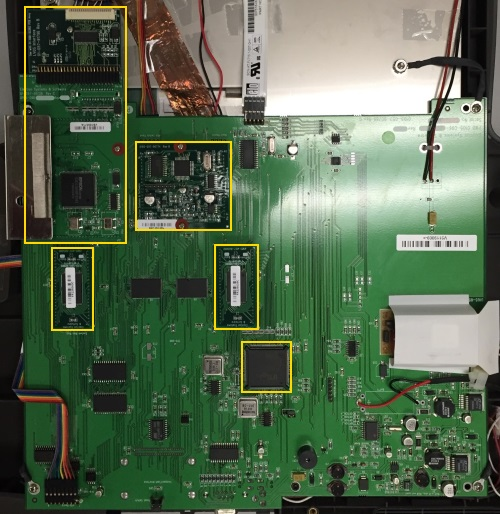
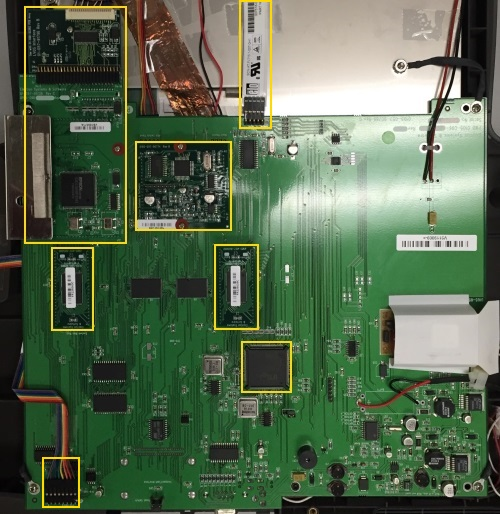
#22 Redesign of iVotronic subpages
Making it all 1 consistent UI.

diff --git a/ivo_sound.html b/ivo_sound.html
@@ -1,17 +1,47 @@
-<head>
-  <title>iVotronic Sound Module</title>
-</head>
+<html>
+    <head>
+        <meta charset="UTF-8" />
+        <title>iVotronic Sound Assembly</title>
+        
+        <link rel="stylesheet" href="styles/main_ui.css" />
+        <link rel="stylesheet" href="styles/dataFields.css" />
+        
+        <script type="text/javascript" src="dataMgmt.js"></script>
+        <script type="text/javascript">
+            function getAUDInfo(component)
+            {
+                getInformation('ivoSound', component);
+            }
+        </script>
+    </head>
 
-<body>
-<map name="boardmap">
-    <area shape="rect" coords="451,288,568,395" href="https://github.com/SCCapstone/omaha/blob/master/ivo/datasheets/sound/U1_PIC16F874.pdf" alt="U1">
-    <area shape="rect" coords="724,451,768,480" href="https://github.com/SCCapstone/omaha/blob/master/ivo/datasheets/sound/U2_5355CUA.pdf" alt="U2">
-    <area shape="rect" coords="550,88,654,177" href="https://github.com/SCCapstone/omaha/blob/master/ivo/datasheets/sound/U3_LVC74A.pdf" alt="U3">
-    <area shape="rect" coords="422,479,576,557" href="https://github.com/SCCapstone/omaha/blob/master/ivo/datasheets/sound/U4_HC541.pdf" alt="U4">
-    <area shape="rect" coords="769,111,832,154" href="https://github.com/SCCapstone/omaha/blob/master/ivo/datasheets/sound/U5_LM4861M.pdf" alt="U5">
-  </map>
+    <body>
+        <map name="boardmap">
+            <area shape="rect" coords="192,  85, 302, 194" href="javascript:getAUDInfo('U1')" title="Microcontroller" />
+            <area shape="rect" coords="132, 300, 167, 341" href="javascript:getAUDInfo('U2')" title="Digital-to-Analog Controller" />
+            <area shape="rect" coords="376, 168, 431, 257" href="javascript:getAUDInfo('U3')" title="D-Flip-Flops" />
+            <area shape="rect" coords=" 66,  62, 157, 190" href="javascript:getAUDInfo('U4')" title="Octal Buffer/Line Driver" />
+            <area shape="rect" coords="372, 331, 425, 393" href="javascript:getAUDInfo('U5')" title="Audio Amplifier" />
+            <area shape="rect" coords="355,  50, 408, 157" href="javascript:getAUDInfo('Y1')" title="Clock" />
+        </map>
 
-  <a href="index.html">Return to homepage</a>
-  <hr />
-  <img src="ivo_sound.jpg" alt="" usemap="#boardmap">
-</body>
+        <div class="top-header">
+            <h1>Project Omaha</h1>
+        </div>
+        
+        <p><a href="index.html">Home</a> &gt; <a href="ivo_main.html">iVotronic Main</a> &gt;</p>
+        <h1>iVotronic Sound Assembly</h1>
+        
+        <hr />
+        <div class="imageBox">
+            <img src="resources/ivo/sound.jpg" alt="" usemap="#boardmap">
+        </div>
+        <div class="infobox">
+            <p id="title">[Component]</p>
+            <p><span id="manu">[Manufacturer]</span>'s <span id="serial">[Serial number]</span></p>
+            <p>Datasheet: <a id="datasheet">[GitHub Link]</a></p>
+            <hr />
+            <p id="flavor">[Information]</p>
+        </div>
+    </body>
+</html>

diff --git a/ivo_ir.html b/ivo_ir.html
@@ -1,8 +1,28 @@
-<head>
-  <title>iVotronic IR Sensor</title>
-</head>
+<html>
+    <head>
+        <meta charset="UTF-8" /><meta http-equiv="content-type" content="text/html; charset=utf-8" />
+        <title>iVotronic IR Sensor</title>
+        
+        <link rel="stylesheet" href="styles/main_ui.css" />
+        <link rel="stylesheet" href="styles/dataFields.css" />
+    </head>
 
-<body><p></p>
-  <a href="index.html">Return to homepage</a>
-  <hr />
-  <img src="ivo_ir.jpg" alt="">
+    <body>
+        <div class="top-header">
+            <h1>Project Omaha</h1>
+        </div>
+        <p><a href="index.html">Home</a> &gt; <a href="ivo_main.html">iVotronic Main</a> &gt;</p>
+        <h1>Infrared Communications Assembly</h1>
+        <div style="float: left; width: 162px;">
+            <img src="resources/ivo/ir.jpg" />
+        </div>
+        <div style="float: right; width: 788px;">
+            <p id="title">Infrared Transceiver</p>
+            <p><span id="manu">Vishay Semiconductors</span>'s <span id="serial">TFDU4100</span></p>
+            <p>Datasheet: <a href="resources/dsht/peb/U7_TFDU4100.pdf">U7_TFDU4100.pdf</a></p>
+            <hr />
+            <p>The only interesting component on the infrared communications assembly of the iVotronic is this infrared transceiver; the only other component is a magnetic field switch that is triggered when the PEB is slotted into the recepticle. As with on the PEB, data that is sent and received by this transceiver is processed by an IrDA&tm; chip on the motherboard.</p>
+            <p>The image on the left shows both sides of the IR Comm. Assembly, with the bottom on the left and the top on the right. Notice how this assembly has two transeivers, one on each side. The bottom transceiver points into the PEB slot and exchanges information with the PEB's transceiver. Meanwhile, the top transceiver points out of the device, and we assume it serves some maintenance function: no magnetic field switch is coupled with the second component, so it is not meant for a PEB.</p>
+        </div>
+    </body>
+</html>

diff --git a/ivo_video.html b/ivo_video.html
@@ -1,9 +1,41 @@
-<head>
-  <title>iVotronic Video Module</title>
-</head>
+<html>
+    <head>
+        <meta charset="UTF-8" />
+        <title>iVotronic Video Assembly</title>
+        
+        <link rel="stylesheet" href="styles/main_ui.css" />
+        <link rel="stylesheet" href="styles/dataFields.css" />
+        
+        <script type="text/javascript" src="dataMgmt.js"></script>
+        <script type="text/javascript">
+            function getVIDInfo(component)
+            {
+                getInformation('ivoVideo', component);
+            }
+        </script>
+    </head>
 
-<body>
-  <a href="index.html">Return to homepage</a>
-  <hr />
-  <img src="ivo_video.jpg" alt="">
-</body>
+    <body>
+        <map name="boardmap">
+            <area shape="rect" coords="101, 108, 238, 241" href="javascript:getVIDInfo('U1_1')" title="LCD Controller" />
+            <area shape="rect" coords=" 91, 699, 184, 748" href="javascript:getVIDInfo('U1_2')" title="LCD Transmitter" />
+            <area shape="rect" coords="308,  54, 341, 110" href="javascript:getVIDInfo('U3')"   title="OR Gates" />
+            <area shape="rect" coords=" 21,  99,  60, 164" href="javascript:getVIDInfo('U4')"   title="2→4 Demux" />
+        </map>
+        <div class="top-header">
+            <h1>Project Omaha</h1>
+        </div>
+        <p><a href="index.html">Home</a> &gt; <a href="ivo_main.html">iVotronic Main Board</a> &gt;</p>
+        <h1>iVotronic Video Assembly</h1>
+        <div style="float: left; width: 381px;">
+            <img src="resources/ivo/video.jpg" alt="Video Card" usemap="#boardmap">
+        </div>
+        <div style="float: right; width: 569px;">
+            <p id="title">[Component]</p>
+            <p><span id="manu">[Manufacturer]</span>'s <span id="serial">[Serial number]</span></p>
+            <p>Datasheet: <a id="datasheet">[GitHub Link]</a></p>
+            <hr />
+            <p id="flavor">[Information]</p>
+        </div>
+    </body>
+</html>

diff --git a/ivo_memory.html b/ivo_memory.html
@@ -1,13 +1,29 @@
-<head>
-  <title>iVotronic Memory Module</title>
-</head>
+<html>
+    <head>
+        <meta charset="UTF-8" />
+        <meta http-equiv="content-type" content="text/html; charset=utf-8" />
+        <title>iVotronic Memory Module</title>
+        
+        <link rel="stylesheet" href="styles/main_ui.css" />
+        <link rel="stylesheet" href="styles/dataFields.css" />
+    </head>
 
-<body>
-  <map name="boardmap">
-    <area shape="rect" coords="94,213,279,502" href="https://github.com/SCCapstone/omaha/blob/master/ivo/datasheets/memory/U1_AM29LV160DT.pdf" alt="U1">
-  </map>
-
-  <a href="index.html">Return to homepage</a>
-  <hr />
-  <img src="ivo_memory.jpg" alt="" usemap="#boardmap">
-</body>
+    <body>
+        <div class="top-header">
+            <h1>Project Omaha</h1>
+        </div>
+        
+        <p><a href="index.html">Home</a> &gt; <a href="ivo_main.html">iVotronic Main</a> &gt;</p>
+        <h1>iVotronic Memory Module</h1>
+        <div style="float: left; width: 275px;">
+            <img src="resources/ivo/memory.jpg" alt="Memory Module" title="Memory Module">
+        </div>
+        <div style="float: right; width: 675px;">
+            <p id="title">2-Megabyte Flash Memory Chip</p>
+            <p><span id="manu">AMD</span>'s <span id="serial">AM29LV160DT-90EC</span></p>
+            <p>Datasheet: <a href="resources/dsht/ivo/mem/U1_AM29LV160DT.pdf">U1_AM29LV160DT.pdf</a></p>
+            <hr />
+            <p id="flavor">This memory module works in tandem with the other memory module and four other identical memory chips soldered directly to the motherboard to provide data storage and data backup for the information used and generated by the iVotronic during normal operations. This particular chip provides 16 megabits (2 megabytes) of flash memory, and the pins that seat onto the motherboard are just one-to-one extensions of the chip's pins.</p>
+        </div>
+    </body>
+</html>

diff --git a/ivo_main.html b/ivo_main.html
@@ -20,8 +20,10 @@
             <area shape="rect" coords="241, 341, 291, 392" href="javascript:getIVOInfo('CPU')" title="CPU">
             <area shape="rect" coords="214, 244, 258, 329" href="javascript:getIVOInfo('MEM')" title="Memory Module">
             <area shape="rect" coords=" 51, 247,  93, 330" href="javascript:getIVOInfo('MEM')" title="Memory Module">
-            <area shape="rect" coords=" 24,   6, 126, 243" href="javascript:getIVOInfo('VID')"  title="Video Card">
-            <area shape="rect" coords="135, 141, 231, 230" href="javascript:getIVOInfo('ADA')"  title="Sound Card">
+            <area shape="rect" coords=" 24,   6, 126, 243" href="javascript:getIVOInfo('VID')" title="Video Card">
+            <area shape="rect" coords="135, 141, 231, 230" href="javascript:getIVOInfo('ADA')" title="Sound Card">
+            <area shape="rect" coords=" 42, 457,  79, 507" href="javascript:getIVOInfo('IRD')" title="Cable to IrDA Assy.">
+            <area shape="rect" coords=" 239,  0, 271, 128" href="javascript:getIVOInfo('SWT')" title="Cable to Switch Assy.">
         </map>
 
         <div class="top-header">
